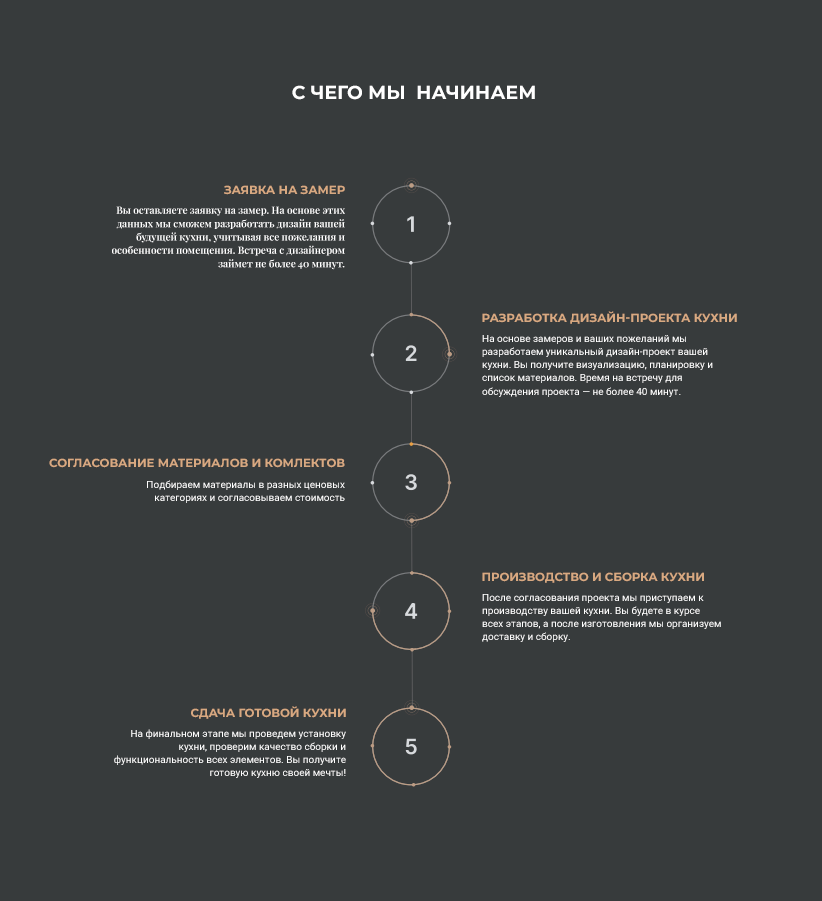
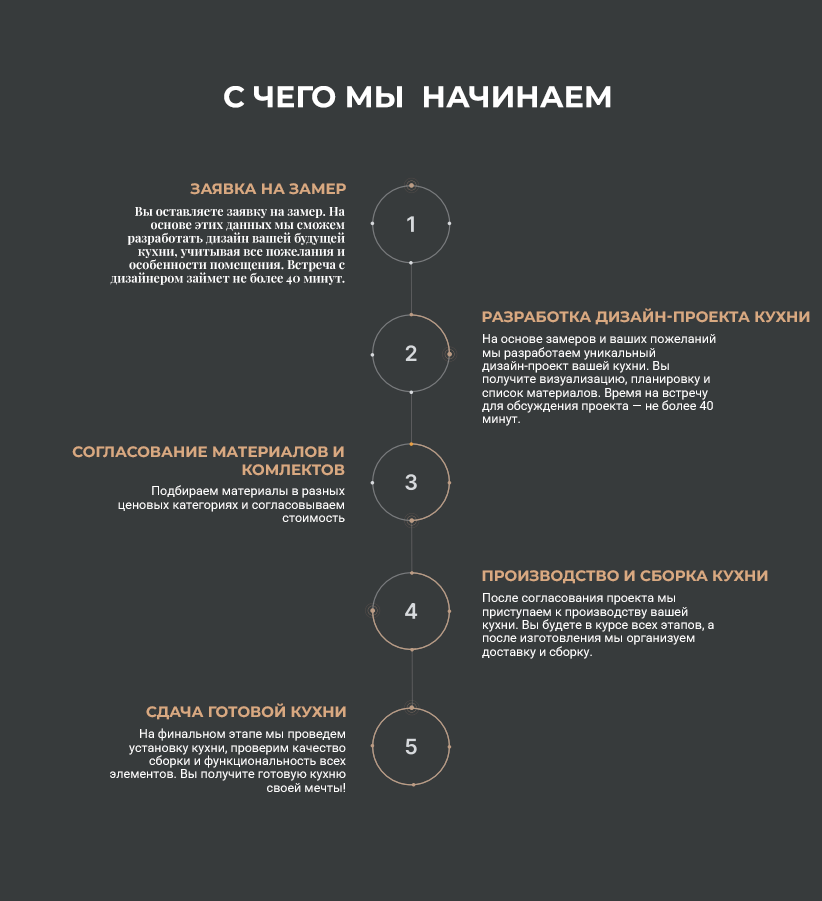
fix and feat: Udpate buttons and title for mobile version

diff --git a/premium_remont/catalog/static/catalog/css/first_page_style.css b/premium_remont/catalog/static/catalog/css/first_page_style.css
@@ -26,6 +26,74 @@
         height: auto;
         padding: 20px;
     }
+
+     .p1_text p.title {
+        position: absolute;
+        top: 100px;
+        left: 0;
+        width: 100%;
+        text-align: center;
+        margin: 0;
+        padding: 10px;
+        background-color: rgba(59, 61, 62, 0.9);
+        color: white;
+        font-size: 18px;
+        z-index: 10;
+    }
+    .p1_text h1 {
+        padding: 10px;
+        font-size: 24px;
+    }
+    .p1_text li {
+        padding: 10px 20px;
+        font-size: 16px;
+    }
+    .button1 {
+        left: 50%;
+        transform: translateX(-50%);
+    }
+}
+
+/* Для экранов шириной МЕНЕЕ 400px (маленькая мобильная версия) */
+@media (max-width: 500px) {
+    .afternav {
+        /* На мобильной версии отступ может потребоваться больше */
+        margin-top: 220px; /* Оставьте 90px или увеличьте при необходимости */
+    }
+
+    .p1 img {
+        width: 100%; /* У вас уже есть этот стиль, он правильный */
+        height: auto;
+    }
+    .p1_text p.title {
+        position: absolute;
+        top: 100px;
+        left: 0;
+        width: 100%;
+        text-align: center;
+        margin: 0;
+        padding: 25px; /* Уменьшаем внутренние отступы */
+        background-color: rgba(59, 61, 62, 0.9);
+        color: white;
+        font-size: 8px; /* Уменьшаем размер шрифта */
+        line-height: 1.1; /* Уменьшаем межстрочный интервал */
+        z-index: 10;
+    }
+
+    .p1_text h1 {
+        padding: 10px;
+        font-size: 10px; /* Уменьшаем размер основного заголовка */
+    }
+
+    .p1_text li {
+        padding: 10px 20px;
+        font-size: 8px; /* Уменьшаем размер шрифта в списке */
+    }
+    .button1 {
+        left: 50%;
+        transform: translateX(-50%);
+        top: 220px;
+    }
 }
 
 
@@ -92,7 +160,7 @@
     border-radius: 50%;
     z-index: 8;
     border: 5px solid #696969;
-    box-shadow: 5px -5px 1px rgba(0, 0, 0, .7);
+
     text-align: center;
 }
 

diff --git a/index.html b/index.html
@@ -65,7 +65,7 @@
     <div class="p1">
         <img src="premium_remont/catalog/static/catalog/img/kitchen_main.jpg" alt="Кухни на заказ">
         <div class="p1_text">
-            <p class="title">ИЗГОТОВЛЕНИЕ КУХОНЬ НА ЗАКАЗ С 2015 ГОДА</p>
+            <p class="title">ИЗГОТОВЛЕНИЕ КУХОНЬ С 2015 ГОДА</p>
             <h1>ВАША МЕЧТА — НАША РАБОТА!</h1>
             <ul>
                 <li><a class="p1_text">Индивидуальный дизайн по вашим размерам и бюджету</a></li>

diff --git a/premium_remont/catalog/templates/catalog/first_page.html b/premium_remont/catalog/templates/catalog/first_page.html
@@ -11,7 +11,7 @@
     <div class="p1">
         <img src="{% static 'catalog/img/kitchen_main.jpg' %}" alt="Кухни на заказ">
         <div class="p1_text">
-            <p class="title">ИЗГОТОВЛЕНИЕ КУХОНЬ НА ЗАКАЗ С 2015 ГОДА</p>
+            <p class="title">ИЗГОТОВЛЕНИЕ КУХОНЬ С 2015 ГОДА</p>
             <h1>ВАША МЕЧТА — НАША РАБОТА!</h1>
             <ul>
                 <li><a class="p1_text">Индивидуальный дизайн по вашим размерам и бюджету</a></li>

diff --git a/premium_remont/catalog/static/catalog/css/11th_page_style.css b/premium_remont/catalog/static/catalog/css/11th_page_style.css
@@ -89,6 +89,22 @@
     text-align: center;
 }
 
+@media (max-width: 500px) {
+    .button4 {
+    position: absolute;
+    background-color: #CBA782;
+    right: 20%;
+    bottom: 5%;
+    width: 140px;
+    height: 140px;
+    border-radius: 50%;
+    z-index: 8;
+    border: 3px solid white;
+    text-align: center;
+    top: 250px;
+}
+}
+
 .button4 a {
     display: block;
     padding-top: 35%;
